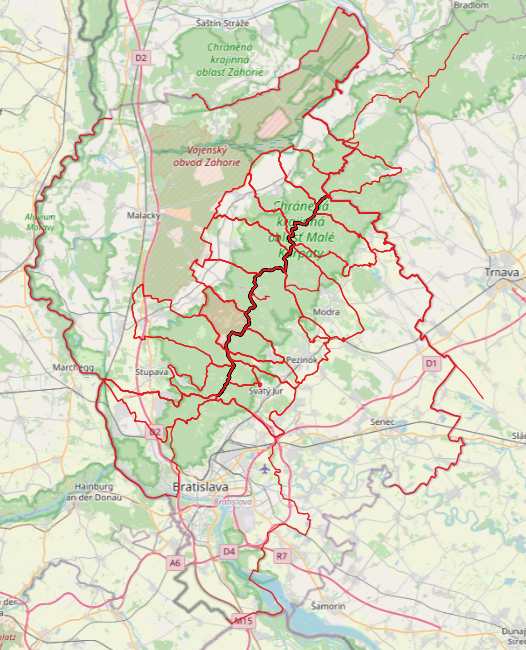
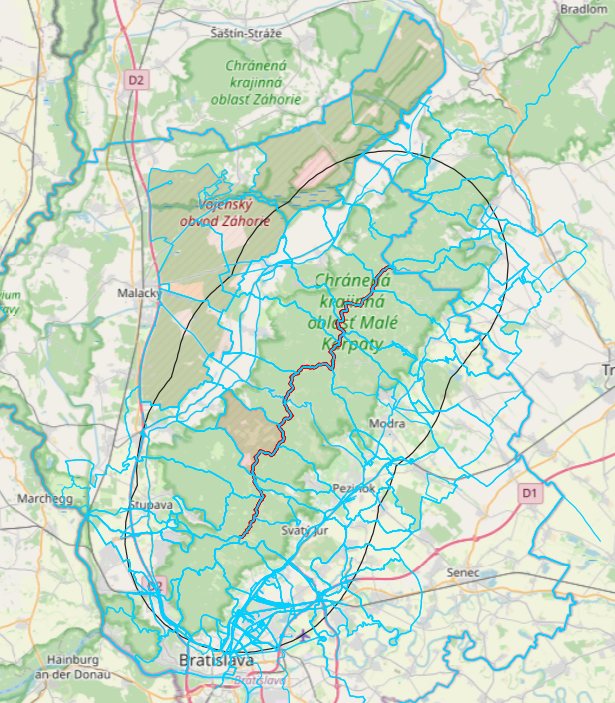
task 11 modification

diff --git a/assignment_3/test.md b/assignment_3/test.md
@@ -1,91 +1,56 @@
-## Task 13
+## Task 11 - Roads within 10 km range
 
 ### SQL Query
 
+To get all roads within 10 km from the crossing border between the two districts, the following query was proposed:
+
 ```sql
-DROP TABLE IF EXISTS bratislava_buffer;
-CREATE TABLE bratislava_buffer AS
-SELECT ST_Transform(ST_Buffer(ST_Transform(cb.way, 5514), 20000), 5514) AS buffer
-FROM planet_osm_polygon cb
-WHERE cb.boundary = 'administrative'
-  AND cb.admin_level = '6'
-  AND cb.name ILIKE 'bratislava';
+DROP TABLE IF EXISTS crossing_border;
 
-SELECT count(*) FROM slovakia_5514;
+CREATE TEMP TABLE IF NOT EXISTS crossing_border AS
+SELECT ST_Intersection(d1.way, d2.way) AS way,
+		d1.name AS district_a,
+    	d2.name AS district_b
+FROM planet_osm_polygon d1
+JOIN planet_osm_polygon d2
+ON d1.name = 'okres Pezinok' AND d2.name = 'okres Malacky'
+WHERE d1.boundary = 'administrative' AND d2.boundary = 'administrative'
+AND d1.admin_level = '8' and d2.admin_level = '8'; 
 
--- Slovakia polygon in 5514
-DROP TABLE IF EXISTS slovakia_5514;
-CREATE TABLE slovakia_5514 AS
-SELECT ST_Transform(cb.way, 5514) AS geom
-FROM planet_osm_polygon cb
-WHERE cb.admin_level = '2' AND cb.name ILIKE 'slovensk%';
 
--- Clipping buffer to Slovakia
-DROP TABLE IF EXISTS bratislava_buffer_clipped;
-CREATE TABLE bratislava_buffer_clipped AS
-SELECT ST_Intersection(bb.buffer, s.geom) AS buffer
-FROM bratislava_buffer bb
-CROSS JOIN slovakia_5514 s;
+-- SELECT * FROM crossing_border;
 
--- Uniting Bratislava districts
-DROP TABLE IF EXISTS bratislava_districts_union;
-CREATE TABLE bratislava_districts_union AS
-SELECT ST_Union(ST_Transform(cb.way, 5514)) AS geom
-FROM planet_osm_polygon cb
-WHERE cb.boundary = 'administrative'
-  AND cb.admin_level = '8'
-  AND cb.name IN ('okres Bratislava I', 'okres Bratislava II', 
-                  'okres Bratislava III', 'okres Bratislava IV', 'okres Bratislava V');
+DROP TABLE IF EXISTS border_buffer;
 
--- Excluding the districts from the buffer
-DROP TABLE IF EXISTS bratislava_district_buffer;
-CREATE TABLE bratislava_district_buffer AS
-SELECT ST_Difference(bb.buffer, bd.geom) AS buffer
-FROM bratislava_buffer_clipped bb
-CROSS JOIN bratislava_districts_union bd;
+CREATE TEMP TABLE IF NOT EXISTS border_buffer AS
+SELECT ST_Transform(ST_buffer(ST_Transform(cb.way, 5514), 10000), 4326) as buffer
+FROM crossing_border as cb;
 
--- Viewing result
-SELECT * FROM bratislava_district_buffer;
+-- SELECT * FROM border_buffer;
 
--- Calculating the area
-SELECT SUM(ST_Area(buffer)) AS vymera_m2
-FROM bratislava_district_buffer;
+
+DROP TABLE IF EXISTS roads_in_10_km;
+
+CREATE TABLE roads_in_10_km AS
+SELECT r.*
+FROM border_buffer bb
+JOIN planet_osm_roads r ON ST_Within(r.way, bb.buffer);
+
+SELECT * FROM roads_in_10_km;
 ```
 
 ### Interpretation
 
-This query calculates the area of a 20 km buffer zone around Bratislava, excluding the city's own districts and clipped to Slovakia's borders. The analysis follows a multi-stage geometric processing workflow:
+To get the correct results, several temporary tables were created in a three-stage process:
 
-**1. Initial Buffer Creation (`bratislava_buffer`)**
+**1. Crossing Border Table (`crossing_border`)**
 
-A 20 km (20,000 meter) buffer zone is created around the Bratislava administrative boundary (admin_level = '6'). The geometry is transformed to EPSG:5514 (S-JTSK) before buffering to ensure accurate metric distance calculations, then kept in this coordinate system for subsequent operations. This buffer extends 20 km in all directions from Bratislava's boundaries.
+This table identifies and extracts the exact boundary line where the two districts meet. Using `ST_Intersection()`, the query computes the geometric intersection between the polygon boundaries of okres Pezinok and okres Malacky. The result is a linear geometry representing their shared border, along with the names of both districts for reference.
 
-**2. Slovakia Boundary Extraction (`slovakia_5514`)**
+**2. Border Buffer Table (`border_buffer`)**
 
-The national boundary of Slovakia is extracted and transformed to EPSG:5514. This polygon (admin_level = '2') serves as a clipping mask to ensure the buffer zone doesn't extend beyond Slovakia's borders into neighboring countries (Austria, Czech Republic, Hungary).
+This table creates a 10 km buffer zone around the crossing border line. The operation involves a coordinate transformation workflow: the border geometry is first transformed to EPSG:5514 (S-JTSK) using `ST_Transform()`, then buffered by 10,000 meters (10 km) using `ST_Buffer()`, and finally transformed back to WGS84 (EPSG:4326) for consistency with the original OSM data coordinate system. This buffer represents the area of interest for finding nearby roads.
 
-**3. Buffer Clipping (`bratislava_buffer_clipped`)**
+**3. Roads in 10 km Table (`roads_in_10_km`)**
 
-Using `ST_Intersection()`, the buffer is clipped to Slovakia's national boundaries. This operation removes any portions of the buffer that would extend into neighboring countries, ensuring the analysis focuses solely on Slovak territory within 20 km of Bratislava.
-
-**4. Bratislava Districts Union (`bratislava_districts_union`)**
-
-All five Bratislava city districts (admin_level = '8': Bratislava I through V) are merged into a single unified polygon using `ST_Union()`. This creates a complete representation of the city proper that needs to be excluded from the final buffer zone.
-
-**5. Final Buffer Calculation (`bratislava_district_buffer`)**
-
-The `ST_Difference()` function subtracts the unified Bratislava districts from the clipped buffer, creating a "donut" shape that represents only the surrounding area within 20 km of the city, excluding the city itself. This isolates the peripheral zone of interest.
-
-**6. Area Calculation**
-
-Finally, `ST_Area()` computes the total area of this peripheral buffer zone in square meters. Since all operations were performed in EPSG:5514, the area measurement is accurate and uses metric units appropriate for Slovak geographic analysis.
-
-This approach demonstrates advanced spatial operations including buffering, clipping, union, and difference operations to precisely define and measure a complex geographic zone.
-
-### Results
-
-![Task 13 - Geographic Results of Required Territory](img/task_13_geographic_results.png)
-
-![Task 13 - Tabular Results of Required Territory's Area](img/task_13_tabular_results.png)
-
-The geographic visualization shows the 20 km buffer zone surrounding Bratislava (excluding the city districts themselves), clipped to Slovakia's borders. The tabular results display the total area of this peripheral zone in square meter
+This final table retrieves all roads that are completely contained within the 10 km buffer zone. The `ST_Within()` function checks whether road geometries are fully inside the buffer polygon, ensuring that only roads entirely within the defined distance from the border are captured. This is more restrictive than `ST_Intersects()`, as it excludes roads that only partially enter the buffer zone or cross its boundary. The result is stored as a permanent table for further analysis or visualization.

diff --git a/assignment_3/PROTOCOL.md b/assignment_3/PROTOCOL.md
@@ -49,6 +49,7 @@ To be able to import the data, we took the following approach:
 
 We verified the installation:
 
+```bash
 Assignment_4=# \dt
                   List of tables
  Schema |         Name         | Type  |  Owner
@@ -63,6 +64,7 @@ Assignment_4=# \dt
  public | planet_osm_ways      | table | postgres
  public | spatial_ref_sys      | table | postgres
 (9 rows)
+```
 
 ## Task 2
 
@@ -511,7 +513,7 @@ AND d1.admin_level = '8' and d2.admin_level = '8';
 DROP TABLE IF EXISTS border_buffer;
 
 CREATE TEMP TABLE IF NOT EXISTS border_buffer AS
-SELECT ST_Transform(ST_buffer(ST_Transform(cb.way, 3857), 10000), 4326) as buffer
+SELECT ST_Transform(ST_buffer(ST_Transform(cb.way, 5514), 10000), 4326) as buffer
 FROM crossing_border as cb;
 
 -- SELECT * FROM border_buffer;
@@ -522,7 +524,7 @@ DROP TABLE IF EXISTS roads_in_10_km;
 CREATE TABLE roads_in_10_km AS
 SELECT r.*
 FROM border_buffer bb
-JOIN planet_osm_roads r ON ST_Intersects(bb.buffer, r.way);
+JOIN planet_osm_roads r ON ST_Within(r.way, bb.buffer);
 
 SELECT * FROM roads_in_10_km;
 ```
@@ -539,11 +541,11 @@ This table identifies and extracts the exact boundary line where the two distric
 
 **2. Border Buffer Table (`border_buffer`)**
 
-This table creates a 10 km buffer zone around the crossing border line. The operation involves a coordinate transformation workflow: the border geometry is first transformed from WGS84 (EPSG:4326) to Web Mercator (EPSG:3857) using `ST_Transform()`, then buffered by 10,000 meters (10 km) using `ST_Buffer()`, and finally transformed back to WGS84 for consistency with the original OSM data coordinate system.
+This table creates a 10 km buffer zone around the crossing border line. The operation involves a coordinate transformation workflow: the border geometry is first transformed to EPSG:5514 (S-JTSK) using `ST_Transform()`, then buffered by 10,000 meters (10 km) using `ST_Buffer()`, and finally transformed back to WGS84 (EPSG:4326) for consistency.
 
 **3. Roads in 10 km Table (`roads_in_10_km`)**
 
-This final table retrieves all roads that fall within or intersect the 10 km buffer zone. The `ST_Intersects()` function checks for any spatial overlap between the road geometries from `planet_osm_roads` and the buffer polygon, capturing all roads that are fully or partially within the defined distance from the border.
+This final table retrieves all roads that are completely contained within the 10 km buffer zone. The `ST_Within()` function checks whether road geometries are fully inside the buffer polygon, ensuring that only roads entirely within the defined distance from the border are captured.
 
 
 ### Results
@@ -577,6 +579,7 @@ The `ST_Intersects()` function evaluates whether each road geometry overlaps wit
 ### Results
 
 The results are displayed using *QGIS* system, where the crossing border and the roads that directly interect it are highlighted.
+
 
 ![Task 11 - Geographic results of crossing-border Roads only](img/task_11_crossing_roads_only_geographic_results.png)
 
